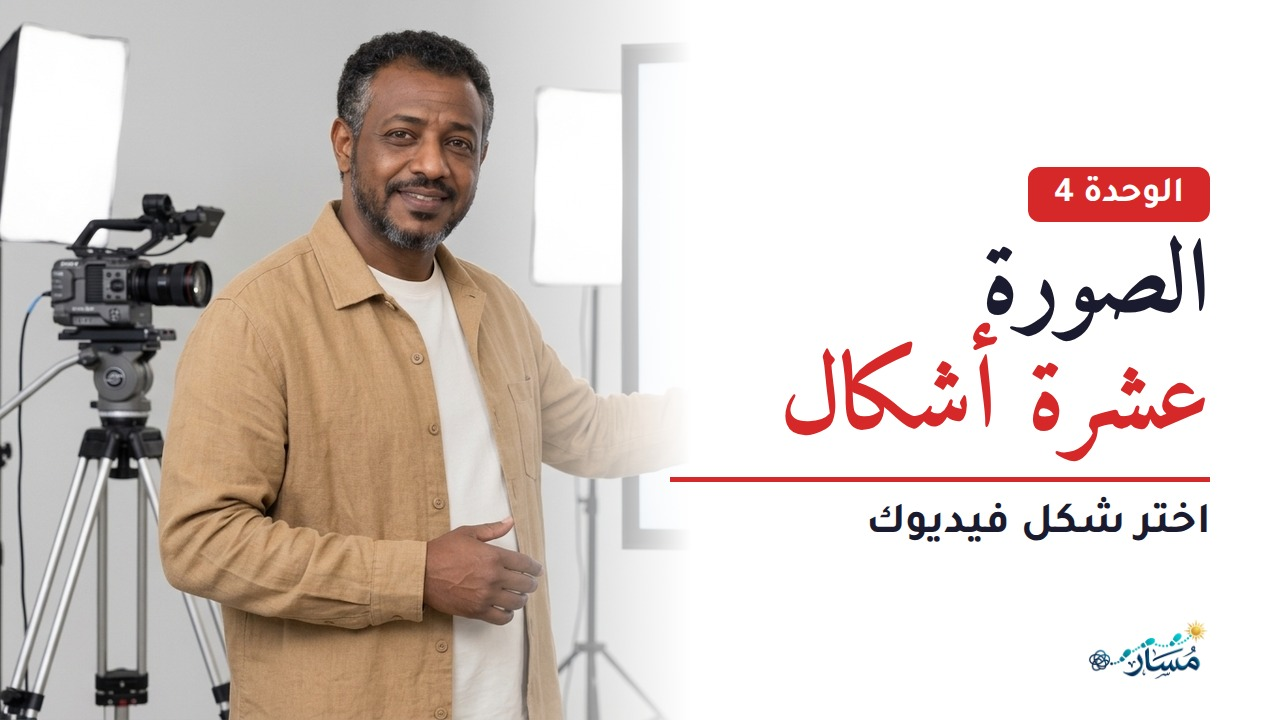
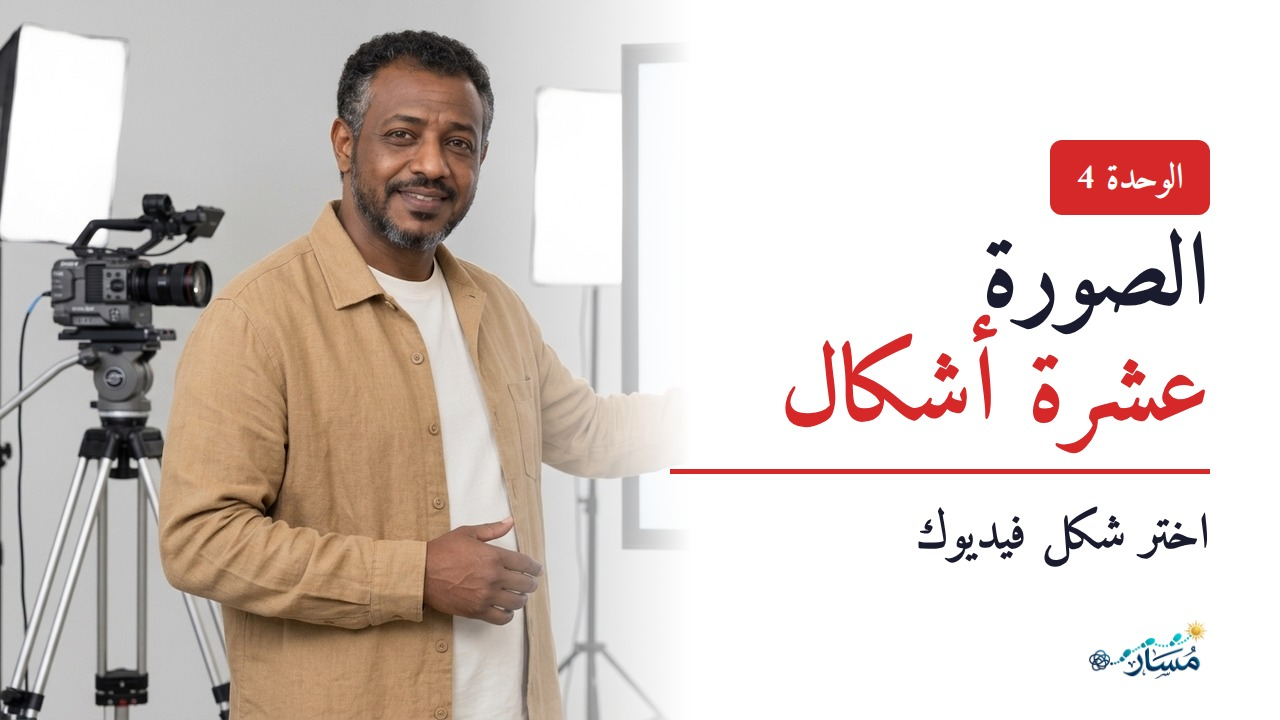
thumbnail: all text in Amiri; unit-4.jpg regenerated; index (57)

Changed region(s): [[0.5, 0.1833, 0.9688, 0.6722], [0.6875, 0.7028, 0.9688, 0.7944]]

diff --git a/index-data.js b/index-data.js
@@ -107,7 +107,7 @@ const IDX = {
       { h: "تجميع الصوت (درس الوحدة 3)", d: "11 أكتوبر 2026", b: `كل جملة تُقص على حدود الكلام، مع تلاشٍ قصير في أولها وآخرها، وفاصل ثابت 0.45 ث بين الجمل (كالوحدة 2). الإصدار الأول من الوحدة 3 وصل الجمل بأذيالها المتفاوتة فبدا الصوت متقطعًا.` },
       { h: "بوابات الجودة قبل كل خطوة مدفوعة", d: "11 أكتوبر 2026", b: `الترتيب الإلزامي لكل فيديو: (1) السيناريو ← اعتماد. (2) جملتا الاختبار (سنتات) ← يسمعهما صاحب المشروع. (3) الأصوات كاملة (سنتات) ← تجميع بالطريقة الثابتة ← فحص آلي (الفواصل، والبدايات، والمستوى، والمدة) ← <b>يسمع صاحب المشروع الصوت المجمّع كاملًا</b>. (4) <b>مسودة فيديو مجانية</b> بصورة المقدّم الثابتة بدل مقطع الأفاتار ← يشاهدها ويعتمد التوقيت. (5) عندها فقط: مقاطع الأفاتار (الخطوة الأغلى) ← الإنتاج النهائي. لا تتخطى أي بوابة، ولو اعتمد صاحب المشروع اقتراحًا دون سماع. سجل التكلفة لكل وحدة في الإندكس.` },
       { h: "توزيع المحادثات: رئيسية للتفكير، وفرعية للتنفيذ", d: "11 أكتوبر 2026", b: `<b>المحادثة الرئيسية:</b> العصف الذهني، والقرارات، والمراجعة، بردود قصيرة وسريعة. <b>محادثة إنتاج لكل وحدة</b> (تبدأ من الوحدة 4): التنفيذ كله، برسالة «محادثة الإنتاج» في دليل الاستئناف. <b>الرابط بينها هو الإندكس:</b> الفرعية تكتب سجلها فيه، والرئيسية تقرؤه، فلا ينقل صاحب المشروع شيئًا بين المحادثات.` },
-      { h: "الصورة المصغرة: قالب وخط ثابتان", d: "11 أكتوبر 2026", b: `كل الصور المصغرة تُصنع بـ studio/make_thumbnail.py: العنوان بخط <b>الأميري العريض</b> (سطران، الثاني بالأحمر، ويصغر الخط تلقائيًا ليبقى كل سطر في سطر واحد)، والشارة والسطر الفرعي بتجوال، والمقدّم بلبس الوحدة يسارًا، والشعار. صُححت صورة الوحدة 2 إلى الأميري.` },
+      { h: "الصورة المصغرة: قالب وخط ثابتان", d: "11 أكتوبر 2026", b: `كل الصور المصغرة تُصنع بـ studio/make_thumbnail.py: <b>كل النصوص بالأميري العريض</b> (تعديل 11 أكتوبر: العنوان والشارة والسطر الفرعي؛ العنوان سطران، الثاني بالأحمر، ويصغر الخط تلقائيًا ليبقى كل سطر في سطر واحد)، والمقدّم بلبس الوحدة يسارًا، والشعار. صُححت صورة الوحدة 2 إلى الأميري.` },
       { h: "الوحدة 4: فيديو معرض واحد، وصفحة لكل شكل", d: "11 أكتوبر 2026", b: `بدل عشرة دروس مستقلة: فيديو واحد يعرض الأشكال العشرة كمعرض سريع، وفي ملف PDF صفحة لكل شكل (الأدوات، والتكلفة، والخطوات، والأخطاء). الحوار بالأفاتار الثاني أحد أمثلة المعرض. زي الأفاتار الثاني وصوته يُحسمان في محادثة إنتاج الوحدة 4 بعرض خيارات على صاحب المشروع.` },
       { h: "الصوت المعتمد: George", d: "10 أكتوبر 2026", b: `ElevenLabs Multilingual V2 على WaveSpeed، صوت George، لكل فيديوهات مسار.` },
       { h: "توزيع العمل", d: "10 أكتوبر 2026", b: `هذه المحادثة: الاستراتيجية والمنصة ومحتوى الحقائب · مشروع «الحقيبة التدريبية»: تصميم الحقائب · مشروع «الاستوديو»: إنتاج الفيديو (ملف التسليم docs/STUDIO-HANDOFF.md). <b>الإندكس (index-data.js) تكتبه محادثة المشروع وحدها</b>؛ الاستوديو يكتب في studio/ و productions/ و media/ فقط، وسجله في studio/STATUS.md، ومحادثة المشروع تنقل منه إلى الإندكس. الأتمتة بثلاث درجات: الاستوديو ← Claude في المتصفح يشغّل WaveSpeed بالروابط ← Claude Code مع API. شرط الأمان: حد شهري في WaveSpeed، ولا Generate قبل الموافقة على السعر.` },
@@ -172,6 +172,7 @@ const IDX = {
 </table>` }
     ]},
     { t: "سجل التحديثات", items: [
+      { h: "11 أكتوبر 2026 (57)", d: "الإصدار 1.9", b: `الصورة المصغرة: قرار صاحب المشروع <b>كل النصوص بالأميري العريض</b> (كانت الشارة والسطر الفرعي بتجوال) · make_thumbnail.py عُدّل، وunit-4.jpg أُعيد توليدها بالسطر الفرعي «اختر شكل فيديوك» في سطر واحد · الوحدات 1–3 بقيت كما هي (الشارة والسطر الفرعي بتجوال).` },
       { h: "11 أكتوبر 2026 (56)", d: "الإصدار 1.9", b: `الوحدة 4: <b>صاحب المشروع اعتمد الفيديو النهائي</b> (media/video-unit-4.mp4، 2:35) · الصورة المصغرة publish/youtube/unit-4.jpg وحزمة يوتيوب unit-4.md (العنوان، والوصف، والفصول من حدود المشاهد المقاسة ±1 ث) · المتبقي: الرفع على يوتيوب ثم إضافة الرابط، والأسئلة، وملف PDF.` },
       { h: "11 أكتوبر 2026 (55)", d: "الإصدار 1.9", b: `الوحدة 4: solo-woman (7.8 ث) وsolo-man (28.7 ث) مكتملان، وفُحصا بالعين: رأس وجسد ويدان وشفاه معًا · قُصّا إلى dialog-q1/a1/q2/a2، وscreen_box لكل صورة (guest-e: 685,49,1274,535) · معاينة الحوار لصاحب المشروع، والإنتاج النهائي أُطلق مع النسخ إلى media.` },
       { h: "11 أكتوبر 2026 (54)", d: "الإصدار 1.9", b: `الوحدة 4: صاحب المشروع رفض تركيب الوجه على الصورة المشتركة (الرأس يتحرك والجسد ثابت) ورفض الشاشة المقسومة (زاوية وقص سيئان) · <b>قرار نهائي للحوار: لقطات متبادلة كاملة</b> (المتدربة وحدها في guest-e حين تسأل، والمقدّم وحده في 4A حين يجيب)، بأسلوب مونتاج المثال المرجعي: لقطة كاملة لكل متكلم، رأس وجسد وشفاه معًا · مقطعان: solo-woman (voice-woman 7.8 ث) وsolo-man (voice-man 28.8 ث) ≈ 2.53$ · أدوات Google (Veo/Flow) مستبعدة: تولّد صوتها بنفسها فتكسر صوت المقدّم المعتمد، ومقاطعها قصيرة، وتكلفتها أعلى · <b>مجموع الصرف على محاولات الحوار الفاشلة ≈ 5.6$</b>.` },

diff --git a/studio/make_thumbnail.py b/studio/make_thumbnail.py
@@ -1,6 +1,6 @@
 #!/usr/bin/env python3
 """الصورة المصغرة ليوتيوب بقالب مسار الثابت (1280×720).
-الخطوط ثابتة لكل الوحدات: العنوان بالأميري العريض (Amiri-Bold)، والشارة والسطر الفرعي بتجوال العريض.
+الخط ثابت لكل الوحدات: كل النصوص بالأميري العريض (Amiri-Bold): العنوان والشارة والسطر الفرعي (قرار 11 أكتوبر).
 التشغيل: python studio/make_thumbnail.py <صورة المقدّم> <رقم الوحدة> "<السطر الأول>" "<السطر الثاني بالأحمر>" "<السطر الفرعي>" <ملف الناتج.jpg> [قص_يسار]
 """
 import os, sys, tempfile
@@ -18,11 +18,11 @@ body{{margin:0;width:1280px;height:720px;overflow:hidden;background:#fff;positio
 .ph{{position:absolute;left:0;top:0;width:720px;height:720px;background:url(p.png) center/cover}}
 .fade{{position:absolute;left:470px;top:0;width:260px;height:720px;background:linear-gradient(to right,rgba(255,255,255,0),#fff 85%)}}
 .tx{{position:absolute;right:70px;top:0;width:540px;height:720px;display:flex;flex-direction:column;align-items:flex-start;justify-content:center;padding-bottom:40px}}
-.b{{font-family:T;background:#D62828;color:#fff;font-size:36px;padding:8px 26px 4px;border-radius:12px}}
+.b{{font-family:A;background:#D62828;color:#fff;font-size:36px;padding:8px 26px 4px;border-radius:12px}}
 .h{{font-family:A;font-size:{fs}px;white-space:nowrap;line-height:1.12;color:#1B1B2F;margin-top:6px}}
 .h span{{color:#D62828}}
 .ln{{width:100%;height:5px;background:#D62828;margin:18px 0 18px}}
-.s{{font-family:T;font-size:44px;color:#1B1B2F}}
+.s{{font-family:A;font-size:50px;color:#1B1B2F}}
 .logo{{position:absolute;right:70px;bottom:40px;height:62px}}
 </style></head><body><div class="ph"></div><div class="fade"></div>
 <div class="tx"><div class="b">الوحدة {n}</div><div class="h">{l1}<br><span>{l2}</span></div><div class="ln"></div><div class="s">{sub}</div></div>
